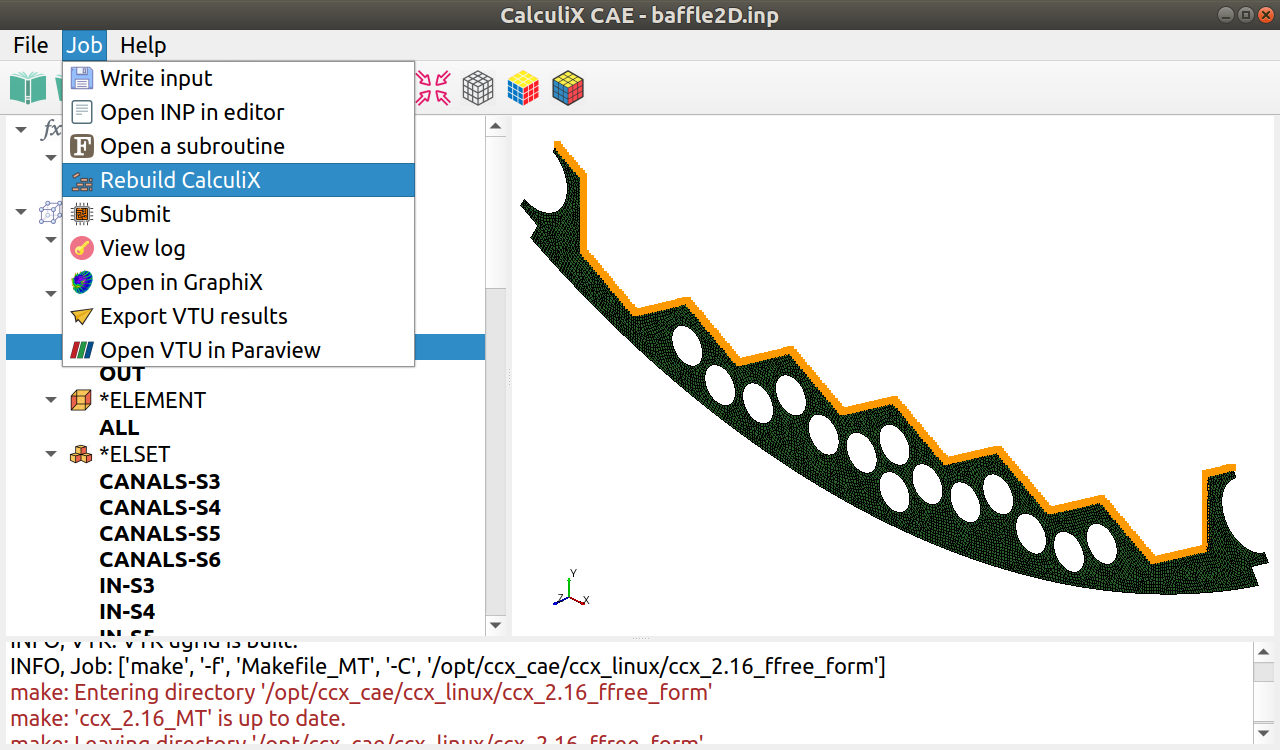
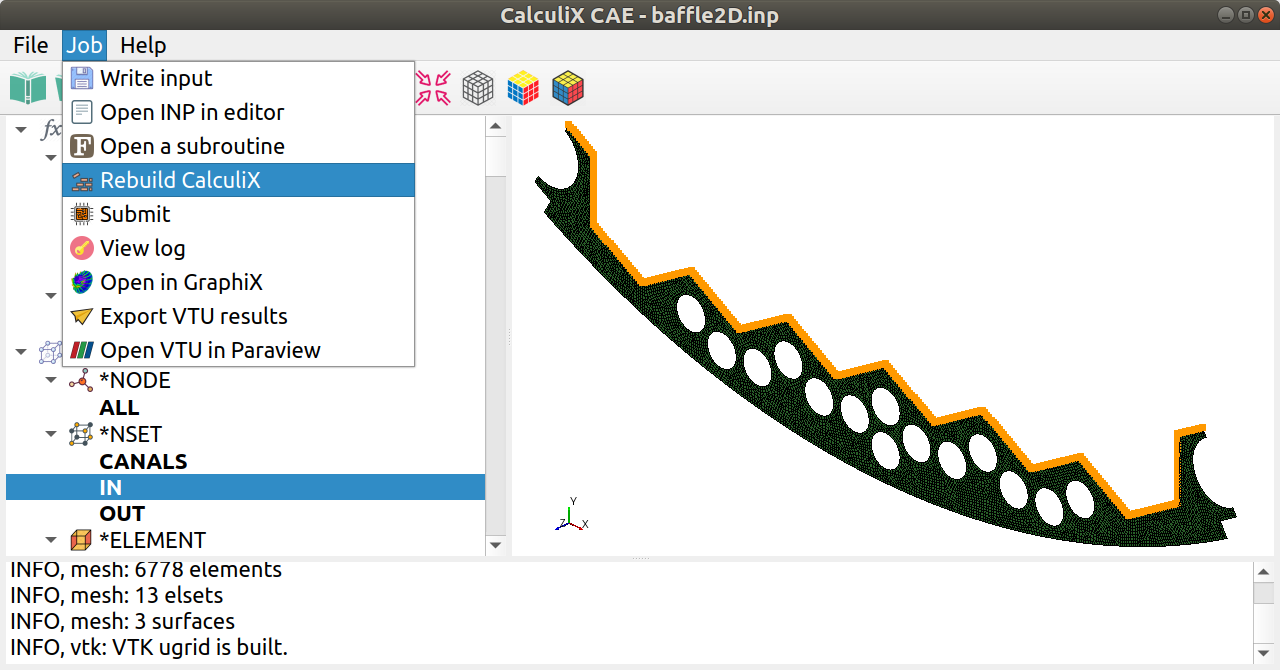
Resized windows and dialogs

diff --git a/src/model/parsers/mesh.py b/src/model/parsers/mesh.py
@@ -35,9 +35,6 @@ class Mesh:
         self.elsets = {} # element sets
         self.surfaces = {} # with corresponding nodes and element faces
 
-        # Mesh bounds to avoid camera flying to infinity
-        self.bounds = [1e+6,-1e+6]*3 # Xmin,Xmax, Ymin,Ymax, Zmin,Zmax
-
         # Mesh being reparsed
         self.old = old
         if not old:
@@ -66,6 +63,9 @@ class Mesh:
                     logging.info(msg_text)
                 except:
                     logging.error('Can\'t parse {}'.format(attrName))
+
+        # Mesh bounds to avoid camera flying to infinity
+        self.bounds = getBounds(self.nodes)
 
 
     # Parse nodes with coordinates - *NODE keyword
@@ -102,13 +102,6 @@ class Mesh:
                         if len(coords):
                             nodes.append(node)
                             self.nodes[num] = node
-
-                            # Bounding box
-                            for j,coord in enumerate(coords):
-                                if coord < self.bounds[j*2]:
-                                    self.bounds[j*2] = coord # update min coords values
-                                if coord > self.bounds[j*2+1]:
-                                    self.bounds[j*2+1] = coord # update max coords values
                         else:
                             msg_text = 'Node {} has no coordinates and will be removed.'.format(num)
                             logging.warning(msg_text)
@@ -406,6 +399,11 @@ class Mesh:
 
 
     # Replace current mesh attributes with reparsed mesh ones
+    """
+    Delete/add nodes
+    Update NSETs, elements, ELSETs, surfaces
+    Rebuild ugrid
+    """
     def updateWith(self, reparsedMesh):
         for attrName, attrValue in reparsedMesh.__dict__.items():
             if type(attrValue) == dict and len(attrValue):
@@ -418,6 +416,18 @@ class Mesh:
     # Parse INP_code and update current Mesh
     def reparse(self, INP_code):
         pass
+
+
+# Bounding box for all nodes
+def getBounds(nodes):
+    bounds = [1e+6,-1e+6]*3 # Xmin,Xmax, Ymin,Ymax, Zmin,Zmax
+    for n in nodes.values(): # type(n) = NODE
+        for j,coord in enumerate(n.coords):
+            if coord < bounds[j*2]:
+                bounds[j*2] = coord # update min coords values
+            if coord > bounds[j*2+1]:
+                bounds[j*2+1] = coord # update max coords values
+    return bounds
 
 
 # Before modification checks if sets have set with the same name

diff --git a/src/gui/keyword_dialog.py b/src/gui/keyword_dialog.py
@@ -313,11 +313,11 @@ class KeywordDialog(QtWidgets.QDialog):
             self.horizontal_layout.addWidget(self.doc)
             self.helpButton.setText('Hide help')
             self.setMaximumSize(10000, 10000)
-            self.setMinimumSize(1280, 600)
-            self.resize(1280, 720)
+            self.setMinimumSize(1280, 640)
+            self.resize(1280, 640)
         else:
             self.horizontal_layout.removeWidget(self.doc)
             self.helpButton.setText('Show help')
             self.setMaximumSize(500, 10000)
-            self.setMinimumSize(500, 600)
-            self.resize(500, 720)
+            self.setMinimumSize(500, 640)
+            self.resize(500, 640)

diff --git a/src/gui/window.py b/src/gui/window.py
@@ -42,8 +42,8 @@ class Window(QtWidgets.QMainWindow):
         if s.show_vtk:
             self.VTK = VTK() # create everything for model visualization
             self.h_splitter.addWidget(self.VTK.widget)
-            self.setMinimumSize(1280, 600)
-            self.resize(1280, 720)
+            self.setMinimumSize(1280, 640)
+            self.resize(1280, 640)
         else:
             self.toolBar.setParent(None) # hide toolbar
 

diff --git a/src/tree.py b/src/tree.py
@@ -161,7 +161,6 @@ class Tree:
                         tree_element.setData(impl)
 
                         # Reparse mesh or constraints
-                        # self.m.Mesh.reparse(INP_code)
                         reparsed = Mesh(INP_code=INP_code, old=self.m.Mesh)
                         self.m.Mesh.updateWith(reparsed)
                         self.clicked() # rehighlight
